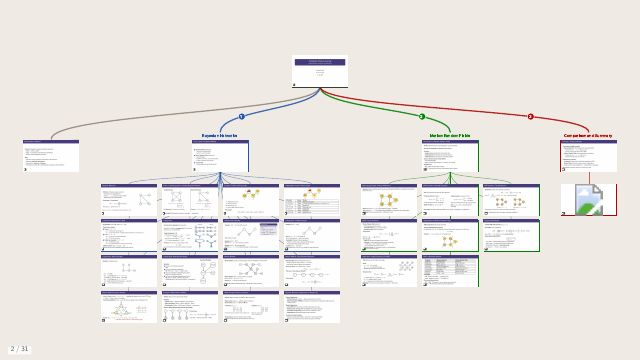
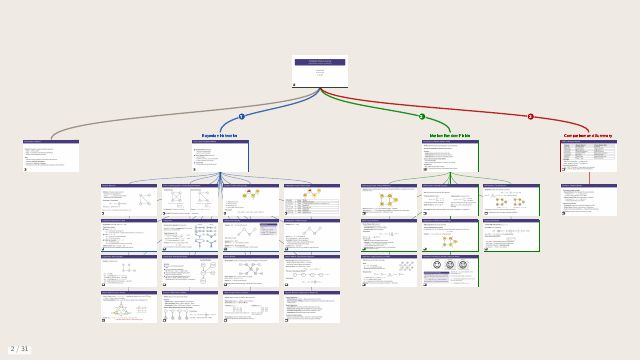
EPL slides: graphical models deck dated 11/10/2026

Changed region(s): [[0.875, 0.3972, 0.9688, 0.6111], [0.6562, 0.7028, 0.75, 0.7944]]

diff --git a/docs/teaching/epl/slides/40-1-graphical-models/index.html b/docs/teaching/epl/slides/40-1-graphical-models/index.html
@@ -90,7 +90,7 @@ section.tight .fbody li { margin-bottom: 2px; }
   <div class="titlemeta">
     <div class="a">Farzad Farnoud</div>
     <div class="i">University of Virginia</div>
-    <div class="d">11/25/2025</div>
+    <div class="d">11/10/2026</div>
   </div>
 </section>
 
